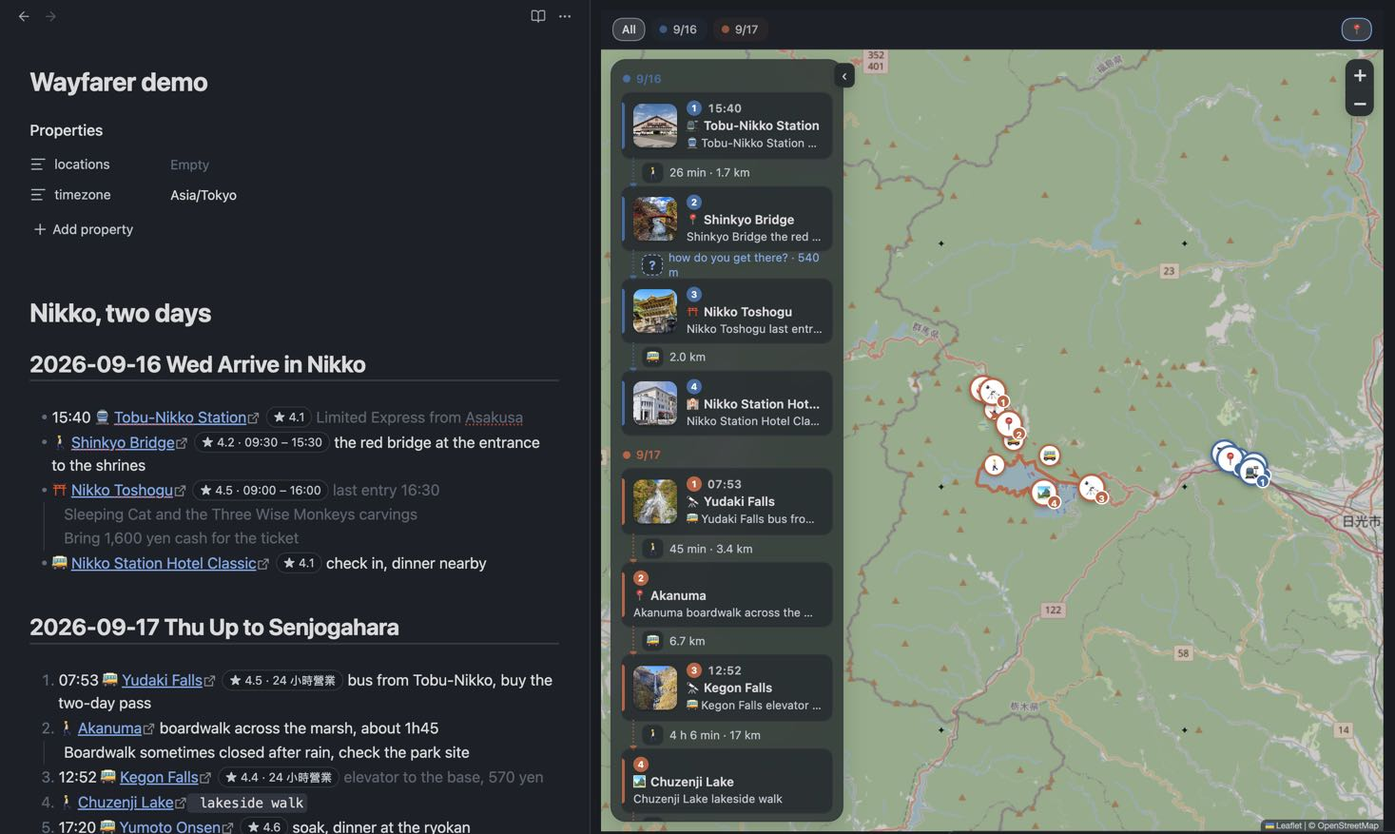
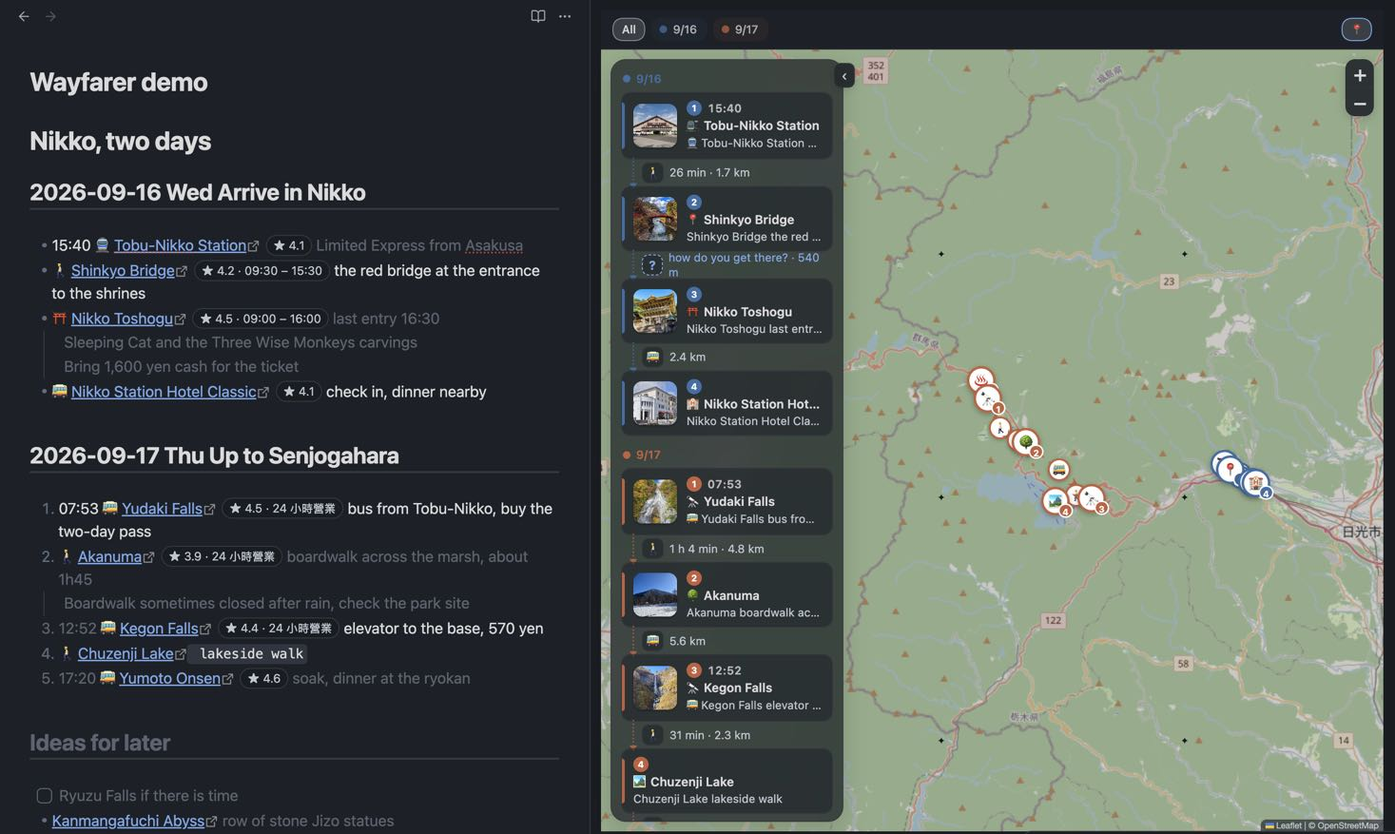
Times are local to the place; no frontmatter needed
Transit departures use the place's UTC offset from Google details (saved
as utc in the stop metadata) or a longitude guess, replacing the
frontmatter timezone key. The new-trip skeleton no longer writes a
locations key. README states what the plugin is for and carries fresh
screenshots.

diff --git a/src/core/itinerary.ts b/src/core/itinerary.ts
@@ -21,6 +21,8 @@ export interface PlaceMeta {
   type?: string;
   /** Google photo resource name (`places/…/photos/…`), fetched with the user's key at render time. */
   photo?: string;
+  /** The place's UTC offset in minutes from Google, so a written time here means local time. */
+  utc?: number;
   /** How the user gets here, chosen in the timeline or written as an emoji before the link. */
   via?: Transport;
   /**
@@ -99,8 +101,6 @@ export interface Itinerary {
   days: Day[];
   /** Every stop in document order. */
   stops: Stop[];
-  /** IANA zone from the frontmatter `timezone:` key, so written times mean local time at the destination. */
-  timezone?: string;
 }
 
 export interface ParseOptions {
@@ -132,7 +132,6 @@ export function parseItinerary(markdown: string, opts: ParseOptions = {}): Itine
   let fence = "";
   let inComment = false;
   let inFrontmatter = lines[0] === "---";
-  let timezone: string | undefined;
   // Indent of the last stop line; deeper lines right under it are its notes, whatever they contain.
   let noteBase: number | null = null;
 
@@ -140,10 +139,6 @@ export function parseItinerary(markdown: string, opts: ParseOptions = {}): Itine
     const raw = lines[i];
     if (inFrontmatter) {
       if (i > 0 && raw.trim() === "---") inFrontmatter = false;
-      else {
-        const tz = /^timezone:\s*["']?([A-Za-z_]+\/[A-Za-z_+\-0-9]+(?:\/[A-Za-z_]+)?|UTC)["']?\s*$/.exec(raw);
-        if (tz) timezone = tz[1];
-      }
       continue;
     }
     const f = FENCE.exec(raw)?.[1];
@@ -228,7 +223,7 @@ export function parseItinerary(markdown: string, opts: ParseOptions = {}): Itine
     d.index = i;
     d.stops.forEach((s) => (s.dayIndex = i));
   });
-  return { days: withStops, stops: withStops.flatMap((d) => d.stops), timezone };
+  return { days: withStops, stops: withStops.flatMap((d) => d.stops) };
 }
 
 /** Blanks every `%%wf:{}%%` comment in `s`, keeping offsets, so emoji inside saved data are not read as the user's. */
@@ -512,6 +507,7 @@ export function parseMeta(json: string): PlaceMeta | undefined {
   const r = raw as Record<string, unknown>;
   const out: PlaceMeta = {};
   if (typeof r.rating === "number" && Number.isFinite(r.rating)) out.rating = r.rating;
+  if (typeof r.utc === "number" && Number.isInteger(r.utc)) out.utc = r.utc;
   if (Array.isArray(r.hours) && r.hours.every((h) => typeof h === "string")) out.hours = r.hours as string[];
   for (const k of ["address", "website", "placeId", "type", "photo"] as const) {
     if (typeof r[k] === "string") (out as Record<string, unknown>)[k] = r[k];
@@ -539,6 +535,7 @@ function compactMeta(meta: PlaceMeta): PlaceMeta {
   if (meta.placeId) out.placeId = meta.placeId;
   if (meta.type) out.type = meta.type;
   if (meta.photo) out.photo = meta.photo;
+  if (meta.utc !== undefined) out.utc = meta.utc;
   if (meta.via) out.via = meta.via;
   if (meta.leg) out.leg = meta.leg;
   return out;

diff --git a/src/routing.ts b/src/routing.ts
@@ -4,7 +4,6 @@ import { bareLeg, finishLeg, legKey, legMetaFor, type Leg } from "./core/legs";
 import type { LegMeta } from "./core/itinerary";
 import { GoogleApiError, googleRoute } from "./net";
 import type { WayfarerSettings } from "./settings";
-import { zonedTime } from "./core/schedule";
 
 /**
  * Turns a day's stops into legs. Answers synchronously with what is known
@@ -34,7 +33,7 @@ export class LegRouter {
   ) {}
 
   /** `file` is the note the day came from, so a result that arrives after the user moved on is not written elsewhere. */
-  legsFor(day: Day, dayDate: Date | null, file = "", timezone?: string): Leg[] {
+  legsFor(day: Day, dayDate: Date | null, file = ""): Leg[] {
     const legs: Leg[] = [];
     const missing: Array<{ from: Stop; to: Stop; mode: Transport; key: string; departure?: Date; file: string }> = [];
     for (let i = 1; i < day.stops.length; i++) {
@@ -59,7 +58,7 @@ export class LegRouter {
         }
       } else {
         legs.push(leg);
-        if (hit === undefined && !this.inflight.has(key)) missing.push({ from, to, mode: leg.mode, key, departure: departureFor(dayDate, from, timezone), file });
+        if (hit === undefined && !this.inflight.has(key)) missing.push({ from, to, mode: leg.mode, key, departure: departureFor(dayDate, from, to), file });
       }
     }
     if (missing.length && !this.paused()) void this.fetch(missing);
@@ -127,19 +126,15 @@ function googleMode(mode: Transport): "TRANSIT" | "WALK" | "DRIVE" | "BICYCLE" {
 
 /**
  * Departure for a transit query: the day's date with the stop's written time,
- * else undefined. Written times are local to the trip, so with a `timezone`
- * the instant is built in that zone rather than the computer's.
+ * else undefined. A written time is local to the place, so the instant is
+ * built with the place's UTC offset (from Google details on either end of the
+ * leg, else a guess from the longitude), never the computer's zone.
  */
-export function departureFor(dayDate: Date | null, from: Stop, timezone?: string): Date | undefined {
+export function departureFor(dayDate: Date | null, from: Stop, to?: Stop): Date | undefined {
   if (!dayDate || !from.time) return undefined;
   const [h, m] = from.time.split(":").map(Number);
-  if (timezone) {
-    const at = zonedTime(dayDate.getFullYear(), dayDate.getMonth(), dayDate.getDate(), h, m, timezone);
-    if (at) return at;
-  }
-  const d = new Date(dayDate);
-  d.setHours(h, m, 0, 0);
-  return d;
+  const offset = from.meta?.utc ?? to?.meta?.utc ?? Math.round(from.lng / 15) * 60;
+  return new Date(Date.UTC(dayDate.getFullYear(), dayDate.getMonth(), dayDate.getDate(), h, m) - offset * 60_000);
 }
 
 /**

diff --git a/src/main.ts b/src/main.ts
@@ -78,10 +78,8 @@ export default class WayfarerPlugin extends Plugin {
       editorCallback: (editor) =>
         new NewTripModal(this.app, (start, days) => {
           const skeleton = tripSkeleton(start, days, getLocale() === "en" ? ["Sun", "Mon", "Tue", "Wed", "Thu", "Fri", "Sat"] : undefined, this.settings.dayHeadingLevel);
-          // A blank note takes the frontmatter too; a note with content only gets the headings.
-          const text = editor.getValue().trim() ? skeleton.replace(/^---\nlocations:\n---\n\n/, "") : skeleton;
           // A heading has to start its own line.
-          editor.replaceSelection(editor.getCursor().ch > 0 ? "\n" + text : text);
+          editor.replaceSelection(editor.getCursor().ch > 0 ? "\n" + skeleton : skeleton);
         }).open(),
     });
     this.addCommand({
@@ -351,9 +349,9 @@ export default class WayfarerPlugin extends Plugin {
       try {
         const p = await places.searchText(stop.name, stop);
         if (!p?.meta || distanceM(p, stop) > 300) { missed++; continue; }
-        const { rating, hours, address, website, placeId, type, photo } = p.meta;
+        const { rating, hours, address, website, placeId, type, photo, utc } = p.meta;
         // Only when the same link is still on that line; the note may have changed while Google answered.
-        await this.rewriteLine(md, stop.line, (text) => (stopStillAt(text, stop) ? patchLineMeta(text, { rating, hours, address, website, placeId, type, photo }, stop) : text));
+        await this.rewriteLine(md, stop.line, (text) => (stopStillAt(text, stop) ? patchLineMeta(text, { rating, hours, address, website, placeId, type, photo, utc }, stop) : text));
         done++;
       } catch (e) {
         if (e instanceof GoogleApiError) { this.googleRefused(e); return; }

diff --git a/src/core/schedule.ts b/src/core/schedule.ts
@@ -97,30 +97,3 @@ export function describeHours(s: HoursStatus): string | null {
     case "already-closed": return t("closed_at", { t: fmtMin(s.closedAt) });
   }
 }
-
-/** The instant at which a wall clock in `zone` reads the given date and time; null for an unknown zone. */
-export function zonedTime(y: number, month0: number, d: number, h: number, mi: number, zone: string): Date | null {
-  let fmt: Intl.DateTimeFormat;
-  try {
-    fmt = new Intl.DateTimeFormat("en-US", { timeZone: zone, hourCycle: "h23", year: "numeric", month: "numeric", day: "numeric", hour: "numeric", minute: "numeric" });
-  } catch {
-    return null;
-  }
-  const guess = Date.UTC(y, month0, d, h, mi);
-  const offsetAt = (t: number): number => {
-    const parts = Object.fromEntries(fmt.formatToParts(new Date(t)).map((p) => [p.type, Number(p.value)]));
-    return Date.UTC(parts.year, parts.month - 1, parts.day, parts.hour, parts.minute) - t;
-  };
-  // Two rounds settle a guess that started on the far side of a DST change.
-  let t = guess - offsetAt(guess);
-  t = guess - offsetAt(t);
-  return new Date(t);
-}
-
-/**
- * The calendar date of a day heading, or null when the heading has no full
- * date or spans a range (then the weekday is unknown, so nothing is checked).
- */
-export function dateForDay(day: { date: { year: number; month: number; day: number } | null; dateEnd?: { year: number; month: number; day: number } | null }): Date | null {
-  return day.date && !day.dateEnd ? new Date(day.date.year, day.date.month - 1, day.date.day) : null;
-}

diff --git a/src/core/schedule.test.ts b/src/core/schedule.test.ts
@@ -1,7 +1,7 @@
 import { beforeAll, describe, expect, it } from "vitest";
 import { setLocale } from "./i18n";
 beforeAll(() => setLocale("zh-TW"));
-import { checkHours, fmtMin, parseDayHours, zonedTime } from "./schedule";
+import { checkHours, fmtMin, parseDayHours } from "./schedule";
 
 describe("hours", () => {
   it("parses english and chinese lines", () => {
@@ -23,16 +23,6 @@ describe("hours", () => {
   });
   it("formats minutes", () => {
     expect(fmtMin(605)).toBe("10:05");
-  });
-});
-
-describe("zonedTime", () => {
-  it("builds the instant for a wall clock in the trip's zone", () => {
-    expect(zonedTime(2026, 8, 17, 9, 0, "Asia/Tokyo")?.toISOString()).toBe("2026-09-17T00:00:00.000Z");
-    expect(zonedTime(2026, 8, 17, 9, 0, "Asia/Taipei")?.toISOString()).toBe("2026-09-17T01:00:00.000Z");
-    expect(zonedTime(2026, 6, 1, 12, 0, "Europe/London")?.toISOString()).toBe("2026-07-01T11:00:00.000Z");
-    expect(zonedTime(2026, 0, 1, 12, 0, "Europe/London")?.toISOString()).toBe("2026-01-01T12:00:00.000Z");
-    expect(zonedTime(2026, 0, 1, 12, 0, "Mars/Olympus")).toBeNull();
   });
 });
 

diff --git a/src/ui/map-view.ts b/src/ui/map-view.ts
@@ -258,7 +258,7 @@ export class WayfarerView extends ItemView {
     let p = this.plans.get(day);
     if (!p) {
       const date = dateForDay(day);
-      p = { legs: this.plugin.router.legsFor(day, date, this.file?.path ?? "", this.itinerary?.timezone), date };
+      p = { legs: this.plugin.router.legsFor(day, date, this.file?.path ?? ""), date };
       this.plans.set(day, p);
     }
     return p;
@@ -763,7 +763,7 @@ function signatureOf(it: Itinerary | null): string {
   if (!it) return "";
   let d = digests.get(it);
   if (d === undefined) {
-    d = JSON.stringify([it.timezone, it.days.map((d) => [d.headingLine, d.title, d.stops.map((s) => [s.line, s.from, s.name, s.lat, s.lng, s.transport, s.time, s.emoji, s.image, s.note, s.notes, s.meta])])]);
+    d = JSON.stringify([it.days.map((d) => [d.headingLine, d.title, d.stops.map((s) => [s.line, s.from, s.name, s.lat, s.lng, s.transport, s.time, s.emoji, s.image, s.note, s.notes, s.meta])])]);
     digests.set(it, d);
   }
   return d;

diff --git a/src/net.ts b/src/net.ts
@@ -37,7 +37,7 @@ export async function expandShortUrl(url: string, maxHops = 5): Promise<string> 
   return current;
 }
 
-const PLACE_FIELDS = "id,displayName,location,formattedAddress,rating,regularOpeningHours,websiteUri,primaryType,photos";
+const PLACE_FIELDS = "id,displayName,location,formattedAddress,rating,regularOpeningHours,websiteUri,primaryType,photos,utcOffsetMinutes";
 
 interface PlaceJson {
   id?: string;
@@ -49,6 +49,7 @@ interface PlaceJson {
   websiteUri?: string;
   primaryType?: string;
   photos?: Array<{ name: string }>;
+  utcOffsetMinutes?: number;
 }
 
 /** URL for a Google photo resource. Built only for the DOM; the key never goes into a note. */
@@ -73,6 +74,7 @@ export function googlePlaces(apiKey: string, languageCode: string): NonNullable<
         placeId: p.id,
         type: p.primaryType,
         photo: p.photos?.[0]?.name,
+        utc: p.utcOffsetMinutes,
       },
     };
   };

diff --git a/src/core/itinerary.test.ts b/src/core/itinerary.test.ts
@@ -267,9 +267,9 @@ describe("what is not a stop", () => {
     expect(it.stops.map((s) => s.name)).toEqual(["A", "C"]);
     expect(it.stops[0].notes).toEqual(["備案 [B](geo:3,4)"]);
   });
-  it("reads the trip timezone from the frontmatter", () => {
-    expect(parseItinerary("---\ntimezone: Asia/Tokyo\n---\n## 2026-09-16\n- [A](geo:1,2)").timezone).toBe("Asia/Tokyo");
-    expect(parseItinerary("## 2026-09-16\n- [A](geo:1,2)").timezone).toBeUndefined();
+  it("keeps the place's UTC offset when it is a whole number of minutes", () => {
+    expect(parseMeta('{"utc":540}')).toEqual({ utc: 540 });
+    expect(parseMeta('{"utc":"540"}')).toEqual({});
   });
 });
 

diff --git a/src/core/gmaps-out.ts b/src/core/gmaps-out.ts
@@ -26,7 +26,7 @@ export function directionsUrl(stops: Pick<Stop, "lat" | "lng">[], mode: "transit
  * across New Year; the pane shows it as `9/16`.
  */
 export function tripSkeleton(start: Date, days: number, weekdayNames = ["週日", "週一", "週二", "週三", "週四", "週五", "週六"], level = 2): string {
-  const out: string[] = ["---", "locations:", "---", ""];
+  const out: string[] = [];
   const pad = (n: number) => String(n).padStart(2, "0");
   for (let i = 0; i < days; i++) {
     const d = new Date(start.getFullYear(), start.getMonth(), start.getDate() + i);

diff --git a/src/core/gmaps-out.test.ts b/src/core/gmaps-out.test.ts
@@ -29,7 +29,7 @@ describe("tripSkeleton", () => {
     expect(s).toContain("## 2026-09-16 週三");
     expect(s).toContain("## 2026-09-17 週四");
     expect(s).toContain("## 2026-09-18 週五");
-    expect(s.startsWith("---\nlocations:\n---")).toBe(true);
+    expect(s.startsWith("## 2026")).toBe(true);
   });
   it("crosses a month boundary", () => {
     expect(tripSkeleton(new Date(2026, 8, 30), 2)).toContain("## 2026-10-01 週四");

diff --git a/README.md b/README.md
@@ -4,27 +4,29 @@ An Obsidian plugin for trip planning. The note is the plan; a pane beside it is 
 
 ![The note on the left, the map and timeline on the right](docs/screenshots/hero.jpg)
 
-Paste a Google Maps link and it becomes a stop. Write one heading per day and the map colours, numbers and connects that day's stops. Put the cursor on a stop and the map flies there. Pick how you get from one stop to the next and Google Routes draws the way with real times. Everything the plugin learns is written back into the note, so the file stays the single source of truth and works on any machine, with or without an API key.
+## Why
 
-## What you get
+A trip plan is something you write together: with a friend, with the person you travel with, and now with an AI assistant. The tools for that are either documents (easy to write, no map) or map apps (a map, but the plan is locked in someone's account, and nobody wants to co-edit a Google My Map).
 
-- **Stops are links.** `[Name](geo:lat,lng)`, the same inline format the [Map View](https://github.com/esm7/obsidian-map-view) plugin reads. You never type it: paste a Google Maps link (short `maps.app.goo.gl` links included) and it converts itself.
+Wayfarer keeps the plan as a plain Markdown note in your vault and treats the map as a view of that note. Anything that can write Markdown can plan the trip: you, a friend, Claude Code or Codex through the skill in this repo. Everything the plugin learns (place details, routes, photos) is written back into the note as hidden metadata, so the file stays the single source of truth and nothing lives only in a database. Sync the vault the way you already do (Obsidian Sync, iCloud, git) and everyone with the note has the whole plan, including the routed legs, with nothing to deploy and no account to share. On the road the note is a normal Obsidian note on your phone, and one command exports the trip to Google My Maps for the Google Maps app.
+
+## What it does
+
+- **Stops are links.** `[Name](geo:lat,lng)`, the same inline format the [Map View](https://github.com/esm7/obsidian-map-view) plugin reads. You rarely type it: paste a Google Maps link (short `maps.app.goo.gl` links included) and it converts itself.
 - **Headings are days.** `## 2026-09-17 Thu Up to Senjogahara` starts a day. A range like `## 2026-09-19 ~ 2026-09-26 Tokyo` keeps a stretch you have not planned yet as one block. Undated sections (research, to-dos, candidates) stay in the same note and off the map.
-- **A timeline beside the map.** The active day's stops top to bottom with photo, time, name and your remark, an arrow between each pair carrying the leg. Click a card to fly there; drag a card to reorder the note.
-- **You choose the transport.** Type a transport emoji before the link (🚶 🚲 🚗 🚕 🚌 🚆 🚇 🚊 ⛴ ✈) or pick it on the arrow. The pick writes the emoji into the text, so the note and the map never disagree. Nothing is guessed.
-- **Routes from Google, once.** With your key, a leg with a chosen mode is routed by Google Routes: time, distance, transit line names, the line drawn along the road. The result is saved on the stop, so nobody asks twice and companions without a key see the same route.
-- **Cards, not tooltips.** Click a pin for the photo, rating, today's opening hours, your notes, address, and links to Google Maps, directions and the line in the note.
-- **Checks against what you wrote.** A time at the start of the line is the stop's time. A routed leg that cannot fit between two written times turns red. A stop with Google hours says "closed that day" or "opens 10:00" for that weekday.
-- **Export to Google My Maps.** One KML per note, one layer per day, for the Google Maps app on the road.
+- **The map follows the note.** Put the cursor on a stop and the map flies there. Pins are coloured and numbered per day, with a line between consecutive stops.
+- **A timeline beside the map.** The day's stops top to bottom with photo, time, name and your remark, and the leg between each pair. Click a card to fly there; drag a card to reorder the note.
+- **You choose the transport.** A transport emoji before the link (🚶 🚲 🚗 🚕 🚌 🚆 🚇 🚊 ⛴ ✈), typed or picked on the arrow. The pick writes the emoji into the text, so note and map never disagree. Nothing is guessed.
+- **Routes from Google, once.** With your key, a leg with a chosen mode is routed by Google Routes: time, distance, transit line names, the line drawn along the road. The result is saved on the stop, so companions without a key see the same route and nobody asks Google twice.
+- **Cards, not tooltips.** Click a pin for the photo, rating, that day's opening hours, your notes, address, and links to Google Maps, directions and the line in the note.
+- **Checks against what you wrote.** A time at the start of the line is the stop's time, local to that place. A routed leg that cannot fit between two written times turns red. A stop with Google hours says "closed that day" or "opens 10:00" for that weekday.
+- **Export to Google My Maps.** One KML per note, one layer per day.
 
 ![The timeline beside the map, and a stop card with photo, rating, notes, address and links](docs/screenshots/popup.jpg)
 
 ## Writing a plan
 
 ```markdown
----
-timezone: Asia/Tokyo
----
 ## 2026-09-16 Wed Arrive in Nikko
 - 15:40 🚆 [Tobu-Nikko Station](geo:36.7476,139.6189) Limited Express from Asakusa
 - ⛩ [Nikko Toshogu](geo:36.7580,139.5990) last entry 16:30
@@ -39,34 +41,34 @@ timezone: Asia/Tokyo
 - [ ] Ryuzu Falls if there is time
 ```
 
-Run **Insert day headings for a trip** to get the headings, then paste links under each. The full date on the heading is what makes weekday, opening-hours and departure checks possible. Indented lines under a stop are its notes. The `timezone` key makes written times local to the trip when you plan from elsewhere. The complete format is in [FORMAT.md](skills/wayfarer-plan-trip/FORMAT.md).
+Run **Insert day headings for a trip** to get the headings, then paste links under each. The full date on the heading is what makes weekday, opening-hours and departure checks possible. Indented lines under a stop are its notes. No frontmatter is needed. The complete format is in [FORMAT.md](skills/wayfarer-plan-trip/FORMAT.md).
 
 ![Rating and hours chips after each link in Reading view](docs/screenshots/reading.jpg)
 
+## Planning with an AI assistant
+
+`skills/wayfarer-plan-trip/` is a skill for Claude Code, Codex and similar agents: how to research a trip (opening days, geography, pace) and exactly how to write the note so the plugin reads it. Copy the folder into your agent's skills directory (for Claude Code, `~/.claude/skills/`), open the vault, and ask for a plan. You review it on the map, move things around, and ask for changes; the agent edits the same note.
+
 ## Google API key
 
-Optional. Without a key you get pins from the link's coordinates and straight-line distances. With a key you also get place details, photos and routed legs. The key is yours, stored in this vault's `.obsidian/plugins/wayfarer/data.json` and never written into a note; requests go only to Google's Places and Routes endpoints.
+Optional. Without a key you get pins from the link's coordinates and straight-line distances. With a key you also get place details, photos and routed legs. The key is yours, stored in this vault's `.obsidian/plugins/wayfarer/data.json` and never written into a note. Requests go only to Google's Places and Routes endpoints; map tiles come from OpenStreetMap unless you set another tile URL.
 
-1. In [Google Cloud Console](https://console.cloud.google.com/) create a project and enable billing (Google requires a card even for the free tier; set a budget alert at $1).
+1. In [Google Cloud Console](https://console.cloud.google.com/) create a project and enable billing (Google requires a card even for the free tier; set a budget alert).
 2. Enable **Places API (New)** and **Routes API**.
 3. Create an API key and restrict it to those two APIs.
 4. Paste it in **Settings → Wayfarer → Google API key** and press **Test key**.
 
-Wayfarer calls Google as rarely as it can: one Places call per stop when it is converted (or when you run **Fetch Google details for stops without them**), one Routes call per leg the first time it is routed, one photo download per stop per session. Results are saved in the note. A 60-stop trip costs about 60 Places calls once and one Routes call per leg once. Google's free monthly allowance covers 1,000 Places calls at the tier these fields use, 10,000 photo loads and 10,000 Routes calls.
+Wayfarer calls Google as rarely as it can: one Places call per stop when it is converted (or when you run **Fetch Google details for stops without them**), one Routes call per leg the first time it is routed, one photo download per stop per session. Results are saved in the note. Google's free monthly allowance covers 1,000 Places calls at the tier these fields use, 10,000 photo loads and 10,000 Routes calls; a 60-stop trip uses a fraction of that, once.
 
 ## Installation
 
 From the community plugin browser once listed, or manually: download `main.js`, `manifest.json` and `styles.css` from the [latest release](https://github.com/kevinsslin/wayfarer/releases/latest) into `<vault>/.obsidian/plugins/wayfarer/` and enable it under **Settings → Community plugins**. [BRAT](https://github.com/TfTHacker/obsidian42-brat) with `kevinsslin/wayfarer` also works.
 
-Desktop only for now: short-link expansion follows the redirect with Node's https, which Obsidian does not offer on mobile.
+The map pane is desktop only for now: short-link expansion follows the redirect with Node's https, which Obsidian does not offer on mobile. The note itself opens anywhere Obsidian does.
 
 ## Commands
 
 **Open itinerary map** · **Insert day headings for a trip** · **Convert Google Maps link on this line to a stop** · **Convert every Google Maps link in this note** · **Fetch Google details for stops without them** · **Export to Google My Maps (KML)**
-
-## Planning with an AI assistant
-
-`skills/wayfarer-plan-trip/` is a skill for Claude Code, Codex and similar agents: how to research a trip and exactly how to write the note so the plugin reads it. Copy the folder into your agent's skills directory (for Claude Code, `~/.claude/skills/`).
 
 ## Development
 
@@ -76,7 +78,7 @@ pnpm check   # lint, typecheck, tests, build, load smoke
 pnpm dev     # esbuild watch
 ```
 
-`src/core` has no Obsidian imports and is unit tested. To release: `pnpm bump 0.1.1`, commit, `git tag 0.1.1`, push the tag; the workflow builds and attaches the three files.
+`src/core` has no Obsidian imports and is unit tested. To release: `pnpm bump 0.1.2`, commit, `git tag 0.1.2`, push the tag; the workflow builds and attaches the three files.
 
 ## Credits
 

diff --git a/skills/wayfarer-plan-trip/FORMAT.md b/skills/wayfarer-plan-trip/FORMAT.md
@@ -1,10 +1,6 @@
 # Note format read by Wayfarer
 
 ```markdown
----
-locations:
-timezone: Asia/Tokyo
----
 # 日本 2026 秋
 
 行前：落地後直接搭京急到淺草。
@@ -48,10 +44,9 @@ timezone: Asia/Tokyo
 |---|---|
 | `## 2026-09-17 週四 主題` | A day. One heading per day, the full `YYYY-MM-DD` first, then anything. Only a full date counts as a date; a heading without one is a day with no weekday or hours checks. Level is a setting (default `##`). |
 | `## 待辦` or any heading without a date | Once the note has dated headings, an undated section is notes: to-do checklists, research, candidate places. Links in it stay in the text but do not appear on the map. Text before the first heading is treated the same way. Keep everything about the trip in the one note. |
-| `timezone: Asia/Tokyo` in the frontmatter | The zone written times are in. Needed for transit departure times when the note is written from another zone. |
 | `## 2026-09-19 ~ 2026-09-26 東京` | A range: several days kept as one block, for a stretch not yet planned day by day. Two full dates joined by `~`, `～`, `-`, `to` or `到`. One chip (`9/19~9/26`), no weekday checks. Split it into day headings once the days are decided. |
 | `[Name](geo:lat,lng)` | A stop. Same format as the Map View plugin. |
-| `07:53` at line start | The stop's time. |
+| `07:53` at line start | The stop's time, local time at that place. |
 | Transport emoji before the link | How you get there: 🚶 walk, 🚲 bike, 🚗 car, 🚕 taxi, 🚌 bus, 🚆 🚄 🚃 train, 🚇 metro / MRT, 🚊 tram / light rail, ⛴ boat, ✈ flight. Words are not read. Picking a transport on the arrow in the map pane writes this emoji before the link (replacing the one there). It is the only place the transport lives. |
 | `%%wf:{…}%%` after a link | Plugin metadata: Google details and the last routed leg (`leg`). Older notes may carry `via`; the emoji wins over it. Leave it as is; never author it by hand. |
 | Indented lines under a stop | The stop's notes, shown verbatim on its card and popup. No format inside them is interpreted: a `geo:` link there is text, not another stop. |
